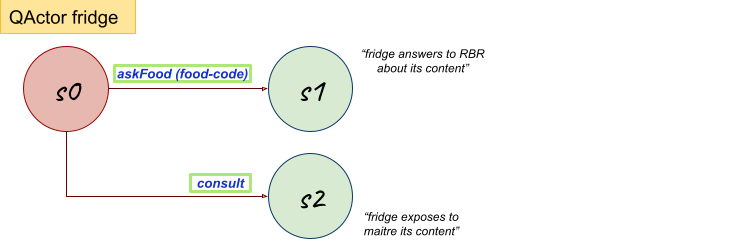
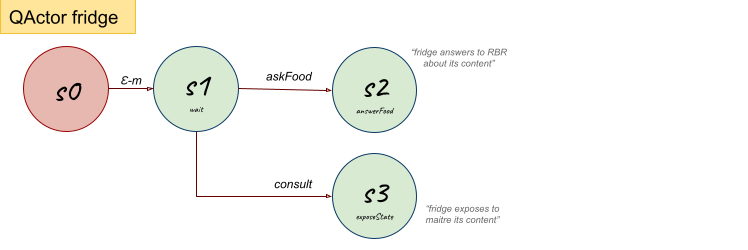
update Analysis.html

Changed region(s): [[0.1537, 0.168, 0.6765, 0.532], [0.246, 0.588, 0.6765, 0.98], [0.0922, 0.784, 0.246, 0.812]]

diff --git a/userDocs/Analysis.html b/userDocs/Analysis.html
@@ -237,11 +237,11 @@ The current state of the resource can be stored as a String in the variable Acto
 </td>
 </tr>
 <tr>
-<th>Moore state machine</th>
+<th>Moore State Machine Diagram</th>
 </tr>
 <tr>
 <td class="imageSchema">
-<img src="./utils/img/QActorLegend.png" alt="Legend of the representations of the behaviors of the QActors"><br>
+<img src="./utils/img/QActorFSMLegend.png" alt="Legend of the representations of the behaviors of the QActors, modeled as a Moore state machines"><br>
 <img src="./utils/img/QActorMaitre.png" alt="Representation of the behavior of QActor maitre, modeled as a Moore state machine"><br>
 <img src="./utils/img/QActorRBR.png" alt="Representation of the behavior of QActor rbr, modeled as a Moore state machine"><br>
 <img src="./utils/img/QActorFridge.png" alt="Representation of the behavior of QActor fridge, modeled as a Moore state machine">

diff --git a/userDocs/utils/style.css b/userDocs/utils/style.css
@@ -197,7 +197,7 @@ td.imageScenario {
 }
 
 td.imageSchema {
-	width: 40%;
+	width: 50%;
 	text-align: center;
 }
 
@@ -223,7 +223,7 @@ iframe {
 }
 
 iframe.qak {
-	height: 700px;
+	height: 1000px;
 }
 
 img {
